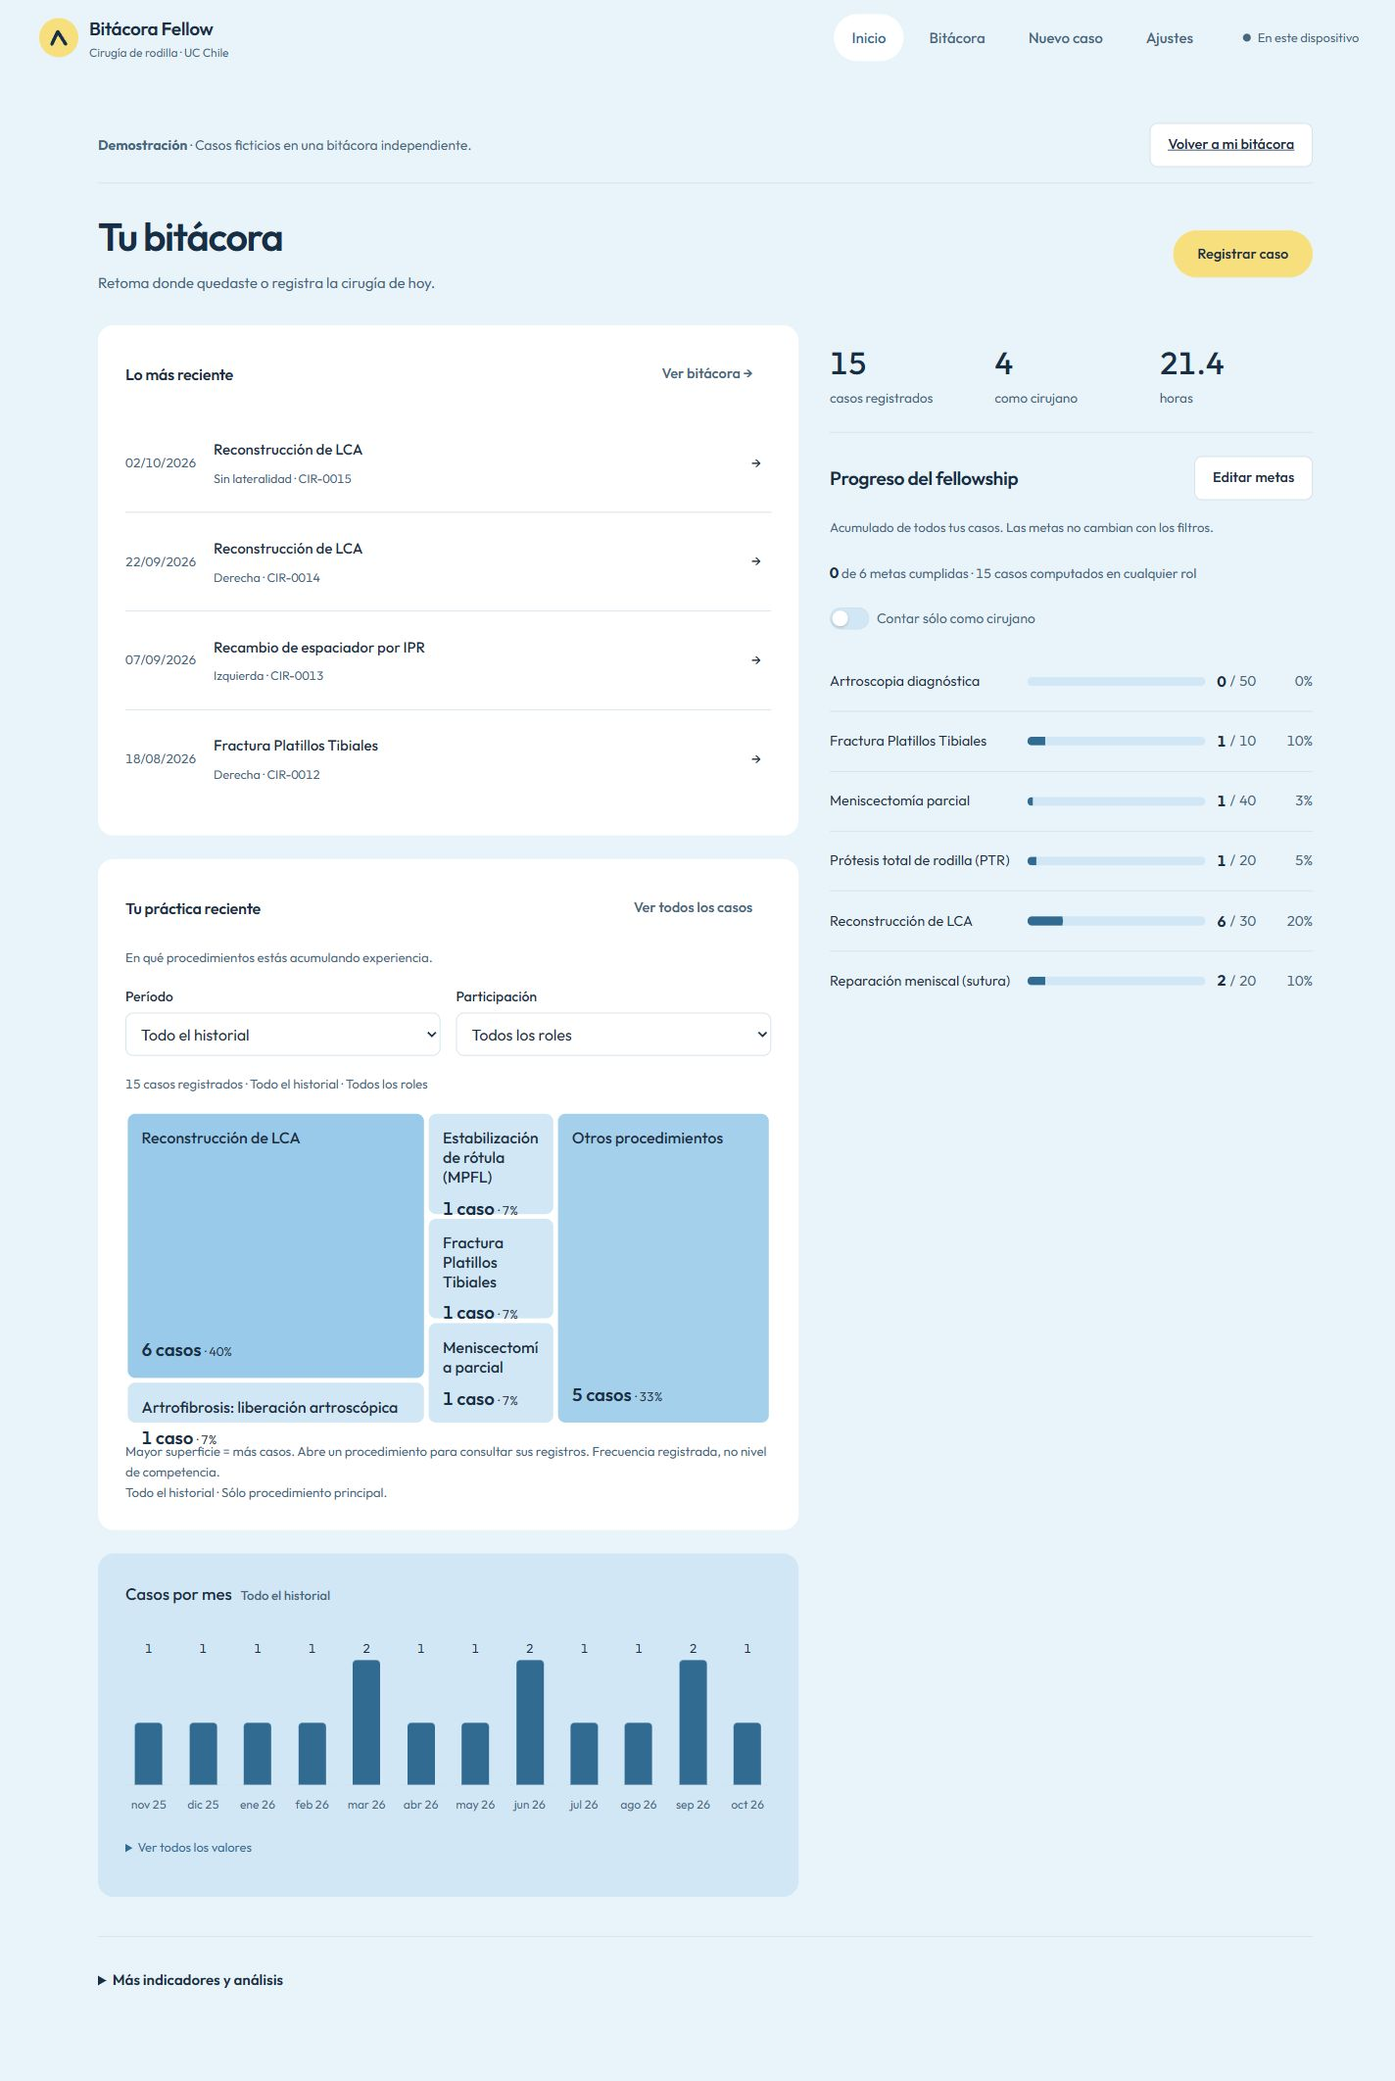
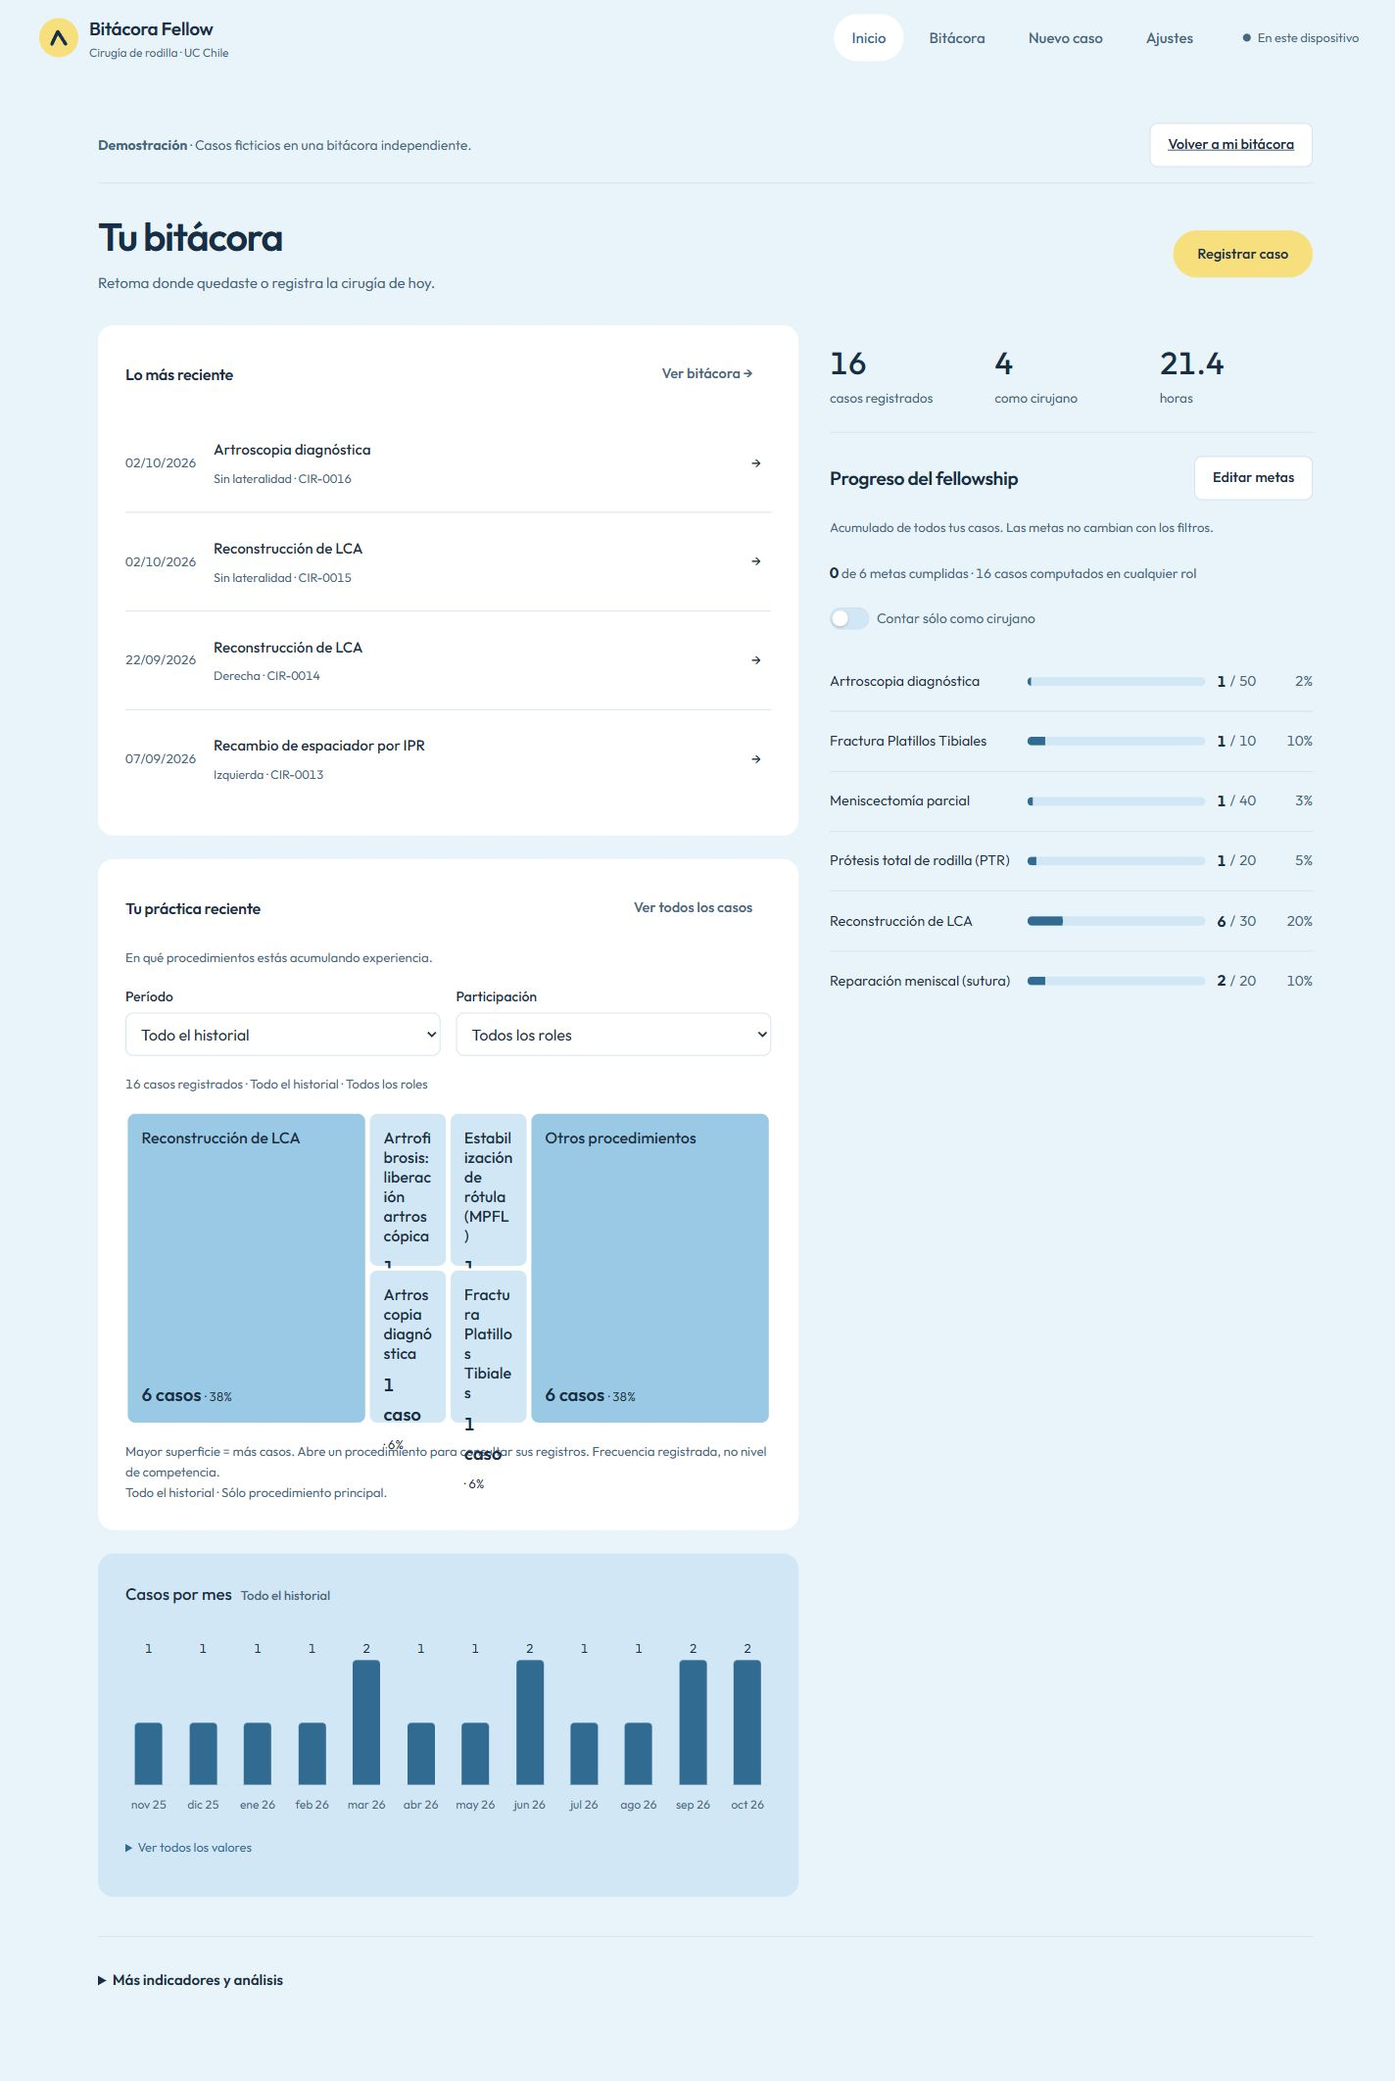
Fix scoped search reset and theme-aware practice colors

Changed region(s): [[0.0927, 0.5282, 0.4944, 0.6836], [0.1545, 0.3107, 0.2781, 0.3729], [0.5253, 0.7768, 0.5562, 0.839]]

diff --git a/assets/css/daybook.css b/assets/css/daybook.css
@@ -133,12 +133,16 @@ details[open] > .associated-content, details[open] > fieldset { animation: edito
 
 @font-face{font-family:Outfit;src:url('../fonts/Outfit.ttf') format('truetype');font-weight:100 900;font-display:swap}
 .view-head h2{font-family:Outfit,system-ui,sans-serif}
+:root{--practice-text:#172f46;--practice-1:#9ac9e5;--practice-2:#add3ea;--practice-3:#beddee;--practice-4:#d1e7f6}
+:root[data-theme="dark"]{--practice-text:#f2f6fc;--practice-1:#275574;--practice-2:#25465f;--practice-3:#223d54;--practice-4:#1c3248}
+@media(prefers-color-scheme:dark){:root:not([data-theme="light"]):not([data-theme="dark"]){--practice-text:#f2f6fc;--practice-1:#275574;--practice-2:#25465f;--practice-3:#223d54;--practice-4:#1c3248}}
+.practice-tile{--practice-tone:var(--practice-1)}.practice-tile[data-practice-tone="1"]{--practice-tone:var(--practice-2)}.practice-tile[data-practice-tone="2"]{--practice-tone:var(--practice-3)}.practice-tile[data-practice-tone="3"]{--practice-tone:var(--practice-4)}
 .daybook-activity{grid-template-columns:minmax(0,1fr)}.daybook-activity>.card{min-width:0}.daybook-layout>*{min-width:0}
 :root{--sans:Outfit,system-ui,sans-serif;--radius:16px;--ease:cubic-bezier(.23,1,.32,1)}
 :root[data-theme="light"]{--bg:#e8f4fa;--surface:#fff;--surface-2:#d1e7f6;--text:#172f46;--muted:#49677c;--border:#cfdee8;--accent:#326b92;--accent-soft:#dceef9;--brand-yellow:#f8df7e;--on-yellow:#172f46;--shadow:none;--shadow-sm:none}
-body{font-size:15px}.topbar{background:var(--bg);border-bottom:0;box-shadow:none;gap:20px}.brand-text h1,.progress-card figcaption,.picker-heading h3,.settings-card h3{font-family:var(--sans);font-weight:600;letter-spacing:-.02em}.brand-text p{font-size:.75rem;letter-spacing:0;text-transform:none}.brand-mark{border-radius:50%;background:var(--brand-yellow);color:var(--on-yellow)}.tabs{justify-content:flex-end}.tab{border-radius:24px;padding:12px 18px}.tab.active{background:var(--surface);box-shadow:none}.view-head h2{font-size:2.5rem;letter-spacing:-.035em;font-weight:600}.view-head{margin-bottom:32px}.btn-primary{border-radius:28px;padding:12px 24px}.btn-primary:hover{transform:none}.btn:active{transform:scale(.98)}.card{box-shadow:none;border:0;border-radius:16px}.view{animation:none}.daybook-layout{display:grid;grid-template-columns:minmax(0,1.45fr) minmax(0,1fr);gap:32px;align-items:start}.daybook-activity{display:grid;gap:24px;min-width:0}.daybook-layout.is-empty{display:block}.daybook-layout.is-empty .progress-card{padding:24px;background:var(--surface)}.daybook-goals{min-width:0}.personal-summary{display:grid;grid-template-columns:repeat(3,minmax(0,1fr));gap:12px;padding:12px 0 24px;border-bottom:1px solid var(--border);margin-bottom:24px}.personal-summary b{display:block;font-size:2rem;font-weight:500}.personal-summary span{display:block;color:var(--muted);font-size:.85rem}.progress-card{padding:0;border:0;background:transparent;margin:0}.progress-card figcaption{font-size:1.2rem}.goals-head{flex-wrap:wrap;gap:12px}.goal{padding:18px 0}.goal-name{overflow-wrap:anywhere}.recent-case{display:grid;grid-template-columns:74px minmax(0,1fr) 20px;gap:16px;align-items:center;width:100%;padding:24px 0;text-align:left;background:none;color:var(--text);border:0;border-bottom:1px solid var(--border);cursor:pointer;font:inherit}.recent-case:last-child{border-bottom:0}.recent-case strong{font-weight:500}.recent-case small{display:block;margin-top:8px}.daybook-activity>.chart{background:var(--surface-2)}.advanced-analysis{margin-top:40px;border-top:1px solid var(--border);padding-top:20px}.advanced-analysis>summary{cursor:pointer;font-weight:600;padding:12px 0}.advanced-analysis[open]>summary{margin-bottom:20px}.practice-controls{display:grid;grid-template-columns:1fr 1fr;gap:16px;margin-top:18px}.practice-context{margin:18px 0}.practice-tiles{height:320px;position:relative;margin:16px 0}.practice-tile{position:absolute;left:var(--x);top:var(--y);width:var(--w);height:var(--h);border:3px solid var(--surface);border-radius:10px;padding:14px;display:flex;flex-direction:column;justify-content:space-between;gap:8px;font:inherit;color:#172f46;background:var(--tile-color);text-align:left;cursor:pointer;overflow-wrap:anywhere;transition:opacity 140ms var(--ease),transform 140ms var(--ease)}.practice-tile strong{font-size:1rem;font-weight:500;line-height:1.25}.practice-tile span{font-size:1.15rem;font-weight:600}.practice-tile small{font-size:.8rem;font-weight:400}.practice-tile:active{transform:scale(.98)}.practice-small{height:auto;display:flex;flex-direction:column;gap:10px}.practice-small .practice-tile{position:relative;left:auto;top:auto;width:100%;height:auto;min-height:70px;flex-direction:row;align-items:center;border:0}.practice-small .practice-tile strong{max-width:68%}.practice-small .practice-tile span{white-space:nowrap}.practice-scope{display:flex;align-items:center;justify-content:space-between;gap:16px;background:var(--accent-soft);padding:12px 18px;border-radius:12px;margin-bottom:20px}.field>span{text-transform:none;letter-spacing:0;font-weight:500}.settings-card h3{font-size:1.3rem}.section-heading{gap:12px}.section-heading .btn{flex-shrink:0}.form-actions{background:var(--surface)}
+body{font-size:15px}.topbar{background:var(--bg);border-bottom:0;box-shadow:none;gap:20px}.brand-text h1,.progress-card figcaption,.picker-heading h3,.settings-card h3{font-family:var(--sans);font-weight:600;letter-spacing:-.02em}.brand-text p{font-size:.75rem;letter-spacing:0;text-transform:none}.brand-mark{border-radius:50%;background:var(--brand-yellow);color:var(--on-yellow)}.tabs{justify-content:flex-end}.tab{border-radius:24px;padding:12px 18px}.tab.active{background:var(--surface);box-shadow:none}.view-head h2{font-size:2.5rem;letter-spacing:-.035em;font-weight:600}.view-head{margin-bottom:32px}.btn-primary{border-radius:28px;padding:12px 24px}.btn-primary:hover{transform:none}.btn:active{transform:scale(.98)}.card{box-shadow:none;border:0;border-radius:16px}.view{animation:none}.daybook-layout{display:grid;grid-template-columns:minmax(0,1.45fr) minmax(0,1fr);gap:32px;align-items:start}.daybook-activity{display:grid;gap:24px;min-width:0}.daybook-layout.is-empty{display:block}.daybook-layout.is-empty .progress-card{padding:24px;background:var(--surface)}.daybook-goals{min-width:0}.personal-summary{display:grid;grid-template-columns:repeat(3,minmax(0,1fr));gap:12px;padding:12px 0 24px;border-bottom:1px solid var(--border);margin-bottom:24px}.personal-summary b{display:block;font-size:2rem;font-weight:500}.personal-summary span{display:block;color:var(--muted);font-size:.85rem}.progress-card{padding:0;border:0;background:transparent;margin:0}.progress-card figcaption{font-size:1.2rem}.goals-head{flex-wrap:wrap;gap:12px}.goal{padding:18px 0}.goal-name{overflow-wrap:anywhere}.recent-case{display:grid;grid-template-columns:74px minmax(0,1fr) 20px;gap:16px;align-items:center;width:100%;padding:24px 0;text-align:left;background:none;color:var(--text);border:0;border-bottom:1px solid var(--border);cursor:pointer;font:inherit}.recent-case:last-child{border-bottom:0}.recent-case strong{font-weight:500}.recent-case small{display:block;margin-top:8px}.daybook-activity>.chart{background:var(--surface-2)}.advanced-analysis{margin-top:40px;border-top:1px solid var(--border);padding-top:20px}.advanced-analysis>summary{cursor:pointer;font-weight:600;padding:12px 0}.advanced-analysis[open]>summary{margin-bottom:20px}.practice-controls{display:grid;grid-template-columns:1fr 1fr;gap:16px;margin-top:18px}.practice-context{margin:18px 0}.practice-tiles{height:320px;position:relative;margin:16px 0}.practice-tile{position:absolute;left:var(--x);top:var(--y);width:var(--w);height:var(--h);border:3px solid var(--surface);border-radius:10px;padding:14px;display:flex;flex-direction:column;justify-content:space-between;gap:8px;font:inherit;color:var(--practice-text);background:var(--practice-tone);text-align:left;cursor:pointer;overflow-wrap:anywhere;transition:opacity 140ms var(--ease),transform 140ms var(--ease)}.practice-tile strong{font-size:1rem;font-weight:500;line-height:1.25}.practice-tile span{font-size:1.15rem;font-weight:600}.practice-tile small{font-size:.8rem;font-weight:400}.practice-tile:active{transform:scale(.98)}.practice-small{height:auto;display:flex;flex-direction:column;gap:10px}.practice-small .practice-tile{position:relative;left:auto;top:auto;width:100%;height:auto;min-height:70px;flex-direction:row;align-items:center;border:0}.practice-small .practice-tile strong{max-width:68%}.practice-small .practice-tile span{white-space:nowrap}.practice-scope{display:flex;align-items:center;justify-content:space-between;gap:16px;background:var(--accent-soft);padding:12px 18px;border-radius:12px;margin-bottom:20px}.field>span{text-transform:none;letter-spacing:0;font-weight:500}.settings-card h3{font-size:1.3rem}.section-heading{gap:12px}.section-heading .btn{flex-shrink:0}.form-actions{background:var(--surface)}
 @media(hover:hover) and (pointer:fine){.practice-tile:hover{opacity:.82}.recent-case:hover strong{color:var(--accent)}}
 @media(max-width:980px){.daybook-layout{grid-template-columns:minmax(0,1.3fr) minmax(0,1fr);gap:24px}.practice-panel{padding:20px}.practice-tile{padding:10px}}
-@media(max-width:780px){.daybook-layout{grid-template-columns:1fr}.topbar{gap:8px}.tabs{justify-content:stretch}.tab{padding:10px 8px}.view-head h2{font-size:2.2rem}.practice-controls{grid-template-columns:1fr}.practice-tiles{height:auto;display:flex;flex-direction:column;gap:10px}.practice-tile{position:relative;left:auto;top:auto;width:100%;height:auto;min-height:80px;flex-direction:row;align-items:center;border:0;background:transparent;isolation:isolate;padding:14px}.practice-tile::before{content:'';position:absolute;inset:0 auto 0 0;width:var(--bar);background:#d1e7f6;border-radius:8px;z-index:-1}.practice-tile strong{max-width:65%}.practice-tile span{font-size:1rem;white-space:nowrap}.practice-tile small{display:block}.practice-scope{align-items:flex-start;flex-direction:column}.recent-case{grid-template-columns:64px minmax(0,1fr) 16px;gap:12px}.personal-summary{padding-top:8px}.progress-card{padding:0}.section-heading{flex-wrap:wrap}}
+@media(max-width:780px){.daybook-layout{grid-template-columns:1fr}.topbar{gap:8px}.tabs{justify-content:stretch}.tab{padding:10px 8px}.view-head h2{font-size:2.2rem}.practice-controls{grid-template-columns:1fr}.practice-tiles{height:auto;display:flex;flex-direction:column;gap:10px}.practice-tile{position:relative;left:auto;top:auto;width:100%;height:auto;min-height:80px;flex-direction:row;align-items:center;border:0;background:transparent;isolation:isolate;padding:14px}.practice-tile::before{content:'';position:absolute;inset:0 auto 0 0;width:var(--bar);background:var(--practice-tone);border-radius:8px;z-index:-1}.practice-tile strong{max-width:65%}.practice-tile span{font-size:1rem;white-space:nowrap}.practice-tile small{display:block}.practice-scope{align-items:flex-start;flex-direction:column}.recent-case{grid-template-columns:64px minmax(0,1fr) 16px;gap:12px}.personal-summary{padding-top:8px}.progress-card{padding:0}.section-heading{flex-wrap:wrap}}
 @media(prefers-reduced-motion:reduce){*,*::before,*::after{animation:none!important;transition:none!important;scroll-behavior:auto!important}.btn:active,.practice-tile:active{transform:none}}
 @media print{.practice-controls,.advanced-analysis>summary,.practice-panel .btn{display:none}.practice-tile{position:relative;inset:auto;width:100%;height:auto}.practice-tiles{height:auto;display:grid;gap:8px}}

diff --git a/assets/js/practice.js b/assets/js/practice.js
@@ -56,7 +56,7 @@ window.BF = window.BF || {};
     $('#practiceDates').textContent = currentScope.desde ? `${fmtDate(currentScope.desde)} – ${fmtDate(currentScope.hasta)} · Sólo procedimiento principal.` : 'Todo el historial · Sólo procedimiento principal.';
     $('#practiceTiles').classList.toggle('practice-small',total<5 || tiles.length<3 || tiles.some(p=>p.value/total<.04));
     const max = Math.max(1,...tiles.map(p=>p.value));
-    $('#practiceTiles').innerHTML = layout(tiles).map((p,i)=>`<button class="practice-tile" type="button" data-practice-index="${i}" style="--x:${p.x}%;--y:${p.y}%;--w:${p.w}%;--h:${p.h}%;--bar:${p.value/max*100}%;--tile-color:hsl(204 65% ${92-16*p.value/Math.max(max,p.value)}%)"><strong>${esc(p.name)}</strong><span>${p.value} ${p.value===1?'caso':'casos'} <small>· ${Math.round(p.value/total*100)}%</small></span></button>`).join('') || '<p class="empty">No hay casos en este período y participación. Cambia los filtros o registra un caso.</p>';
+    $('#practiceTiles').innerHTML = layout(tiles).map((p,i)=>`<button class="practice-tile" type="button" data-practice-index="${i}" data-practice-tone="${Math.min(3,Math.floor((1-p.value/max)*4))}" style="--x:${p.x}%;--y:${p.y}%;--w:${p.w}%;--h:${p.h}%;--bar:${p.value/max*100}%"><strong>${esc(p.name)}</strong><span>${p.value} ${p.value===1?'caso':'casos'} <small>· ${Math.round(p.value/total*100)}%</small></span></button>`).join('') || '<p class="empty">No hay casos en este período y participación. Cambia los filtros o registra un caso.</p>';
     $('#practiceAll').disabled = !total;
   }
   function openScope(procedures, name) {

diff --git a/assets/js/bitacora.js b/assets/js/bitacora.js
@@ -205,7 +205,7 @@ window.BF = window.BF || {};
     $('#tableSearch').addEventListener('input', search);
     $('#tableSort').addEventListener('change', render);
     $('#btnNewFromList').addEventListener('click', () => BF.form.startNew());
-    $('#btnClearSearch').addEventListener('click', clearScope);
+    $('#btnClearSearch').addEventListener('click', () => { $('#tableSearch').value='';render(); });
     $('#btnClearScope').addEventListener('click', clearScope);
     $('#btnExportList').addEventListener('click', () => BF.exporter.exportCsv(visibleCases()));
 

diff --git a/assets/js/dashboard.js b/assets/js/dashboard.js
@@ -224,6 +224,7 @@ window.BF = window.BF || {};
        comunican nada: se muestran una guía de arranque y la tarjeta de metas
        (que sí sirve antes de cargar el primer caso). */
     $('#gettingStarted').hidden = !vacio;
+    $('.advanced-analysis').hidden = vacio;
     $('#dashboardData').hidden = vacio;
     $('#chartsGrid').hidden = vacio || !casos.length;
     $('#kpis').hidden = !casos.length;

diff --git a/docs/daybook-implementation.md b/docs/daybook-implementation.md
@@ -24,10 +24,14 @@ Esta especificación recoge las decisiones aprobadas en el chat y reemplaza la d
 - `form.js`: limpia el alcance después de guardar para mostrar el registro.
 - `daybook.css`: dirección visual seleccionada y adaptación móvil. Outfit y su licencia se distribuyen localmente.
 
+La hoja editorial anterior se retira del código de producción (permanece en el historial Git). Los tokens `--practice-text` y `--practice-1` a `--practice-4` definen la rampa celeste del indicador en modo claro, oscuro y automático. El color acompaña la frecuencia; área, cantidad escrita y porcentaje son la información principal.
+
 ## Validación
 
 28 tests de regresión: los 25 existentes más fechas inclusivas/DST/año bisiesto, roles, agregación principal/cola/consulta y geometría proporcional sin solapamientos. Sintaxis comprobada en todos los JS.
 
 Pruebas en navegador realizadas exclusivamente con la demo independiente: indicador → casos de cirujano, filtros, formulario clínico, registro y persistencia al recargar. Escritorio 1440×1000 y móvil 390×844; formulario y dashboard sin desbordamiento de página. Los gráficos mensuales pueden desplazarse horizontalmente dentro de su contenedor. Capturas en `docs/capturas/daybook-app-*.jpg`.
+
+Además se comprobó primer uso en un origen local nuevo, sin bitácora ni configuración: las tres entradas están disponibles y no se muestran indicadores vacíos. La revisión de código encontró y se corrigieron dos puntos: limpiar búsqueda ahora conserva el alcance del indicador, y los colores de los rectángulos usan tokens de tema. El contraste móvil se comprobó en oscuro con texto `rgb(242,246,252)` sobre la barra `rgb(39,85,116)` y sobre el fondo oscuro. La demo se devolvió a modo claro al finalizar.
 
 La demo contiene datos ficticios. No se probaron conexiones reales de GitHub ni se accedió a una bitácora personal. La app puede usar un token opcional de GitHub; ese flujo se conserva sin reestructurarlo. El PR requiere revisión y merge del mantenedor para actualizar `main` y GitHub Pages.
